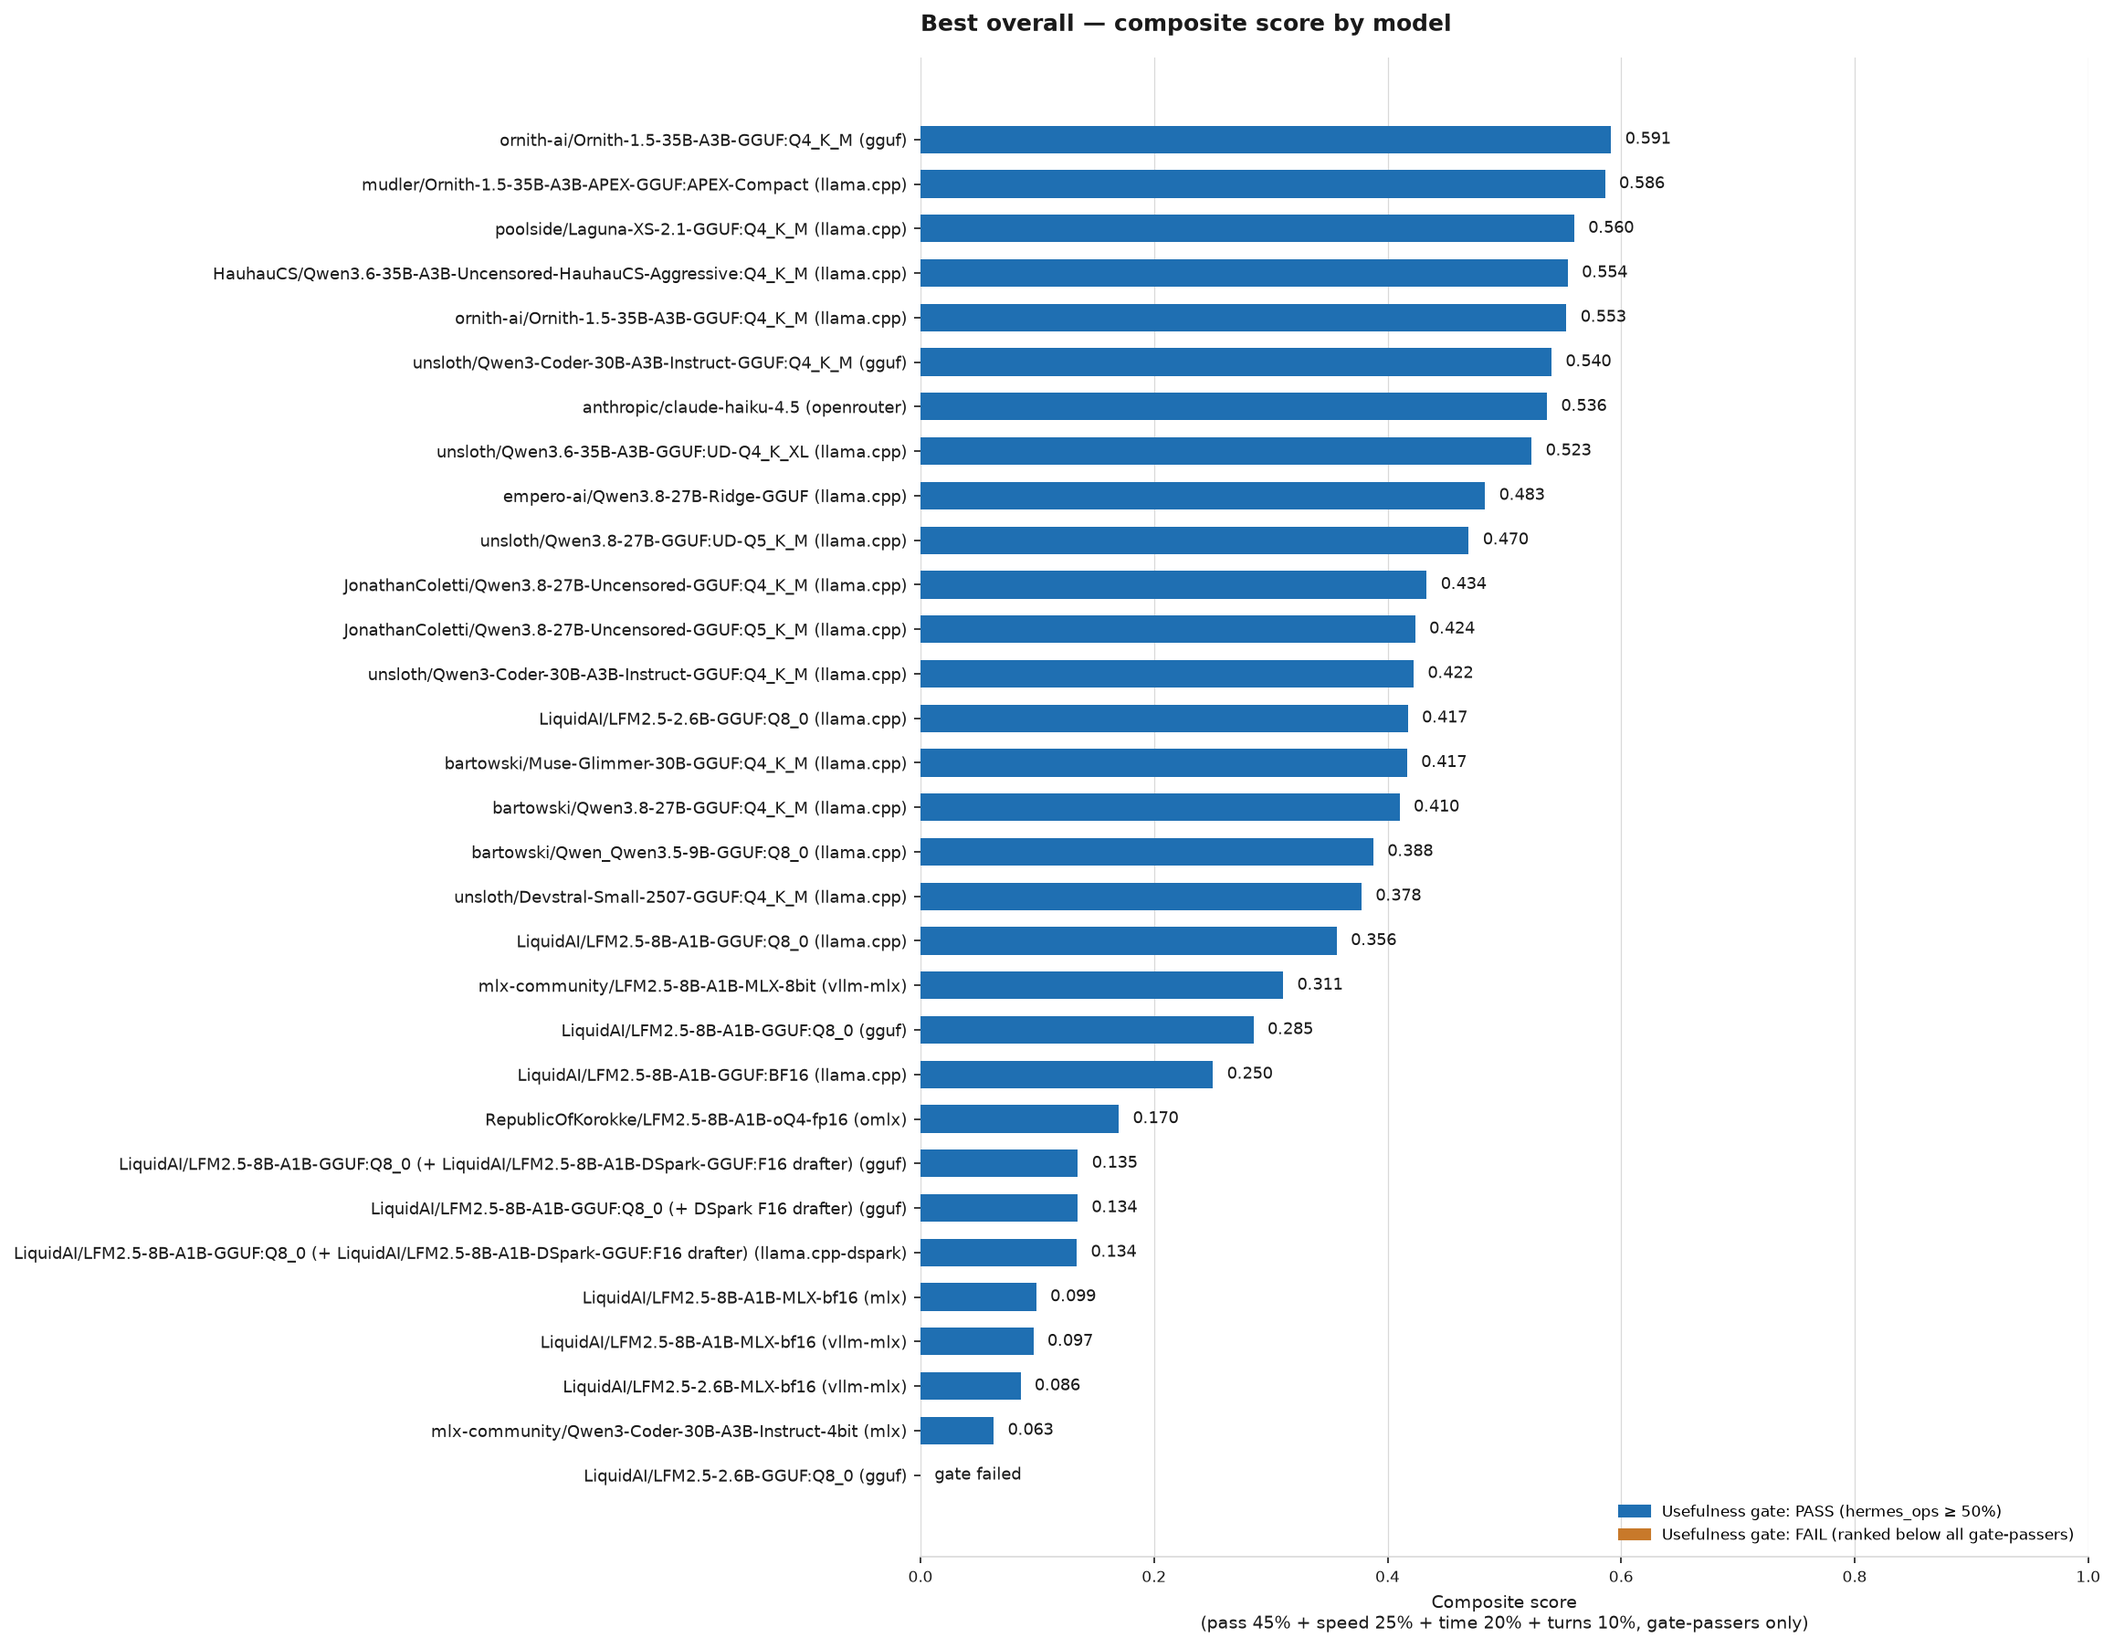
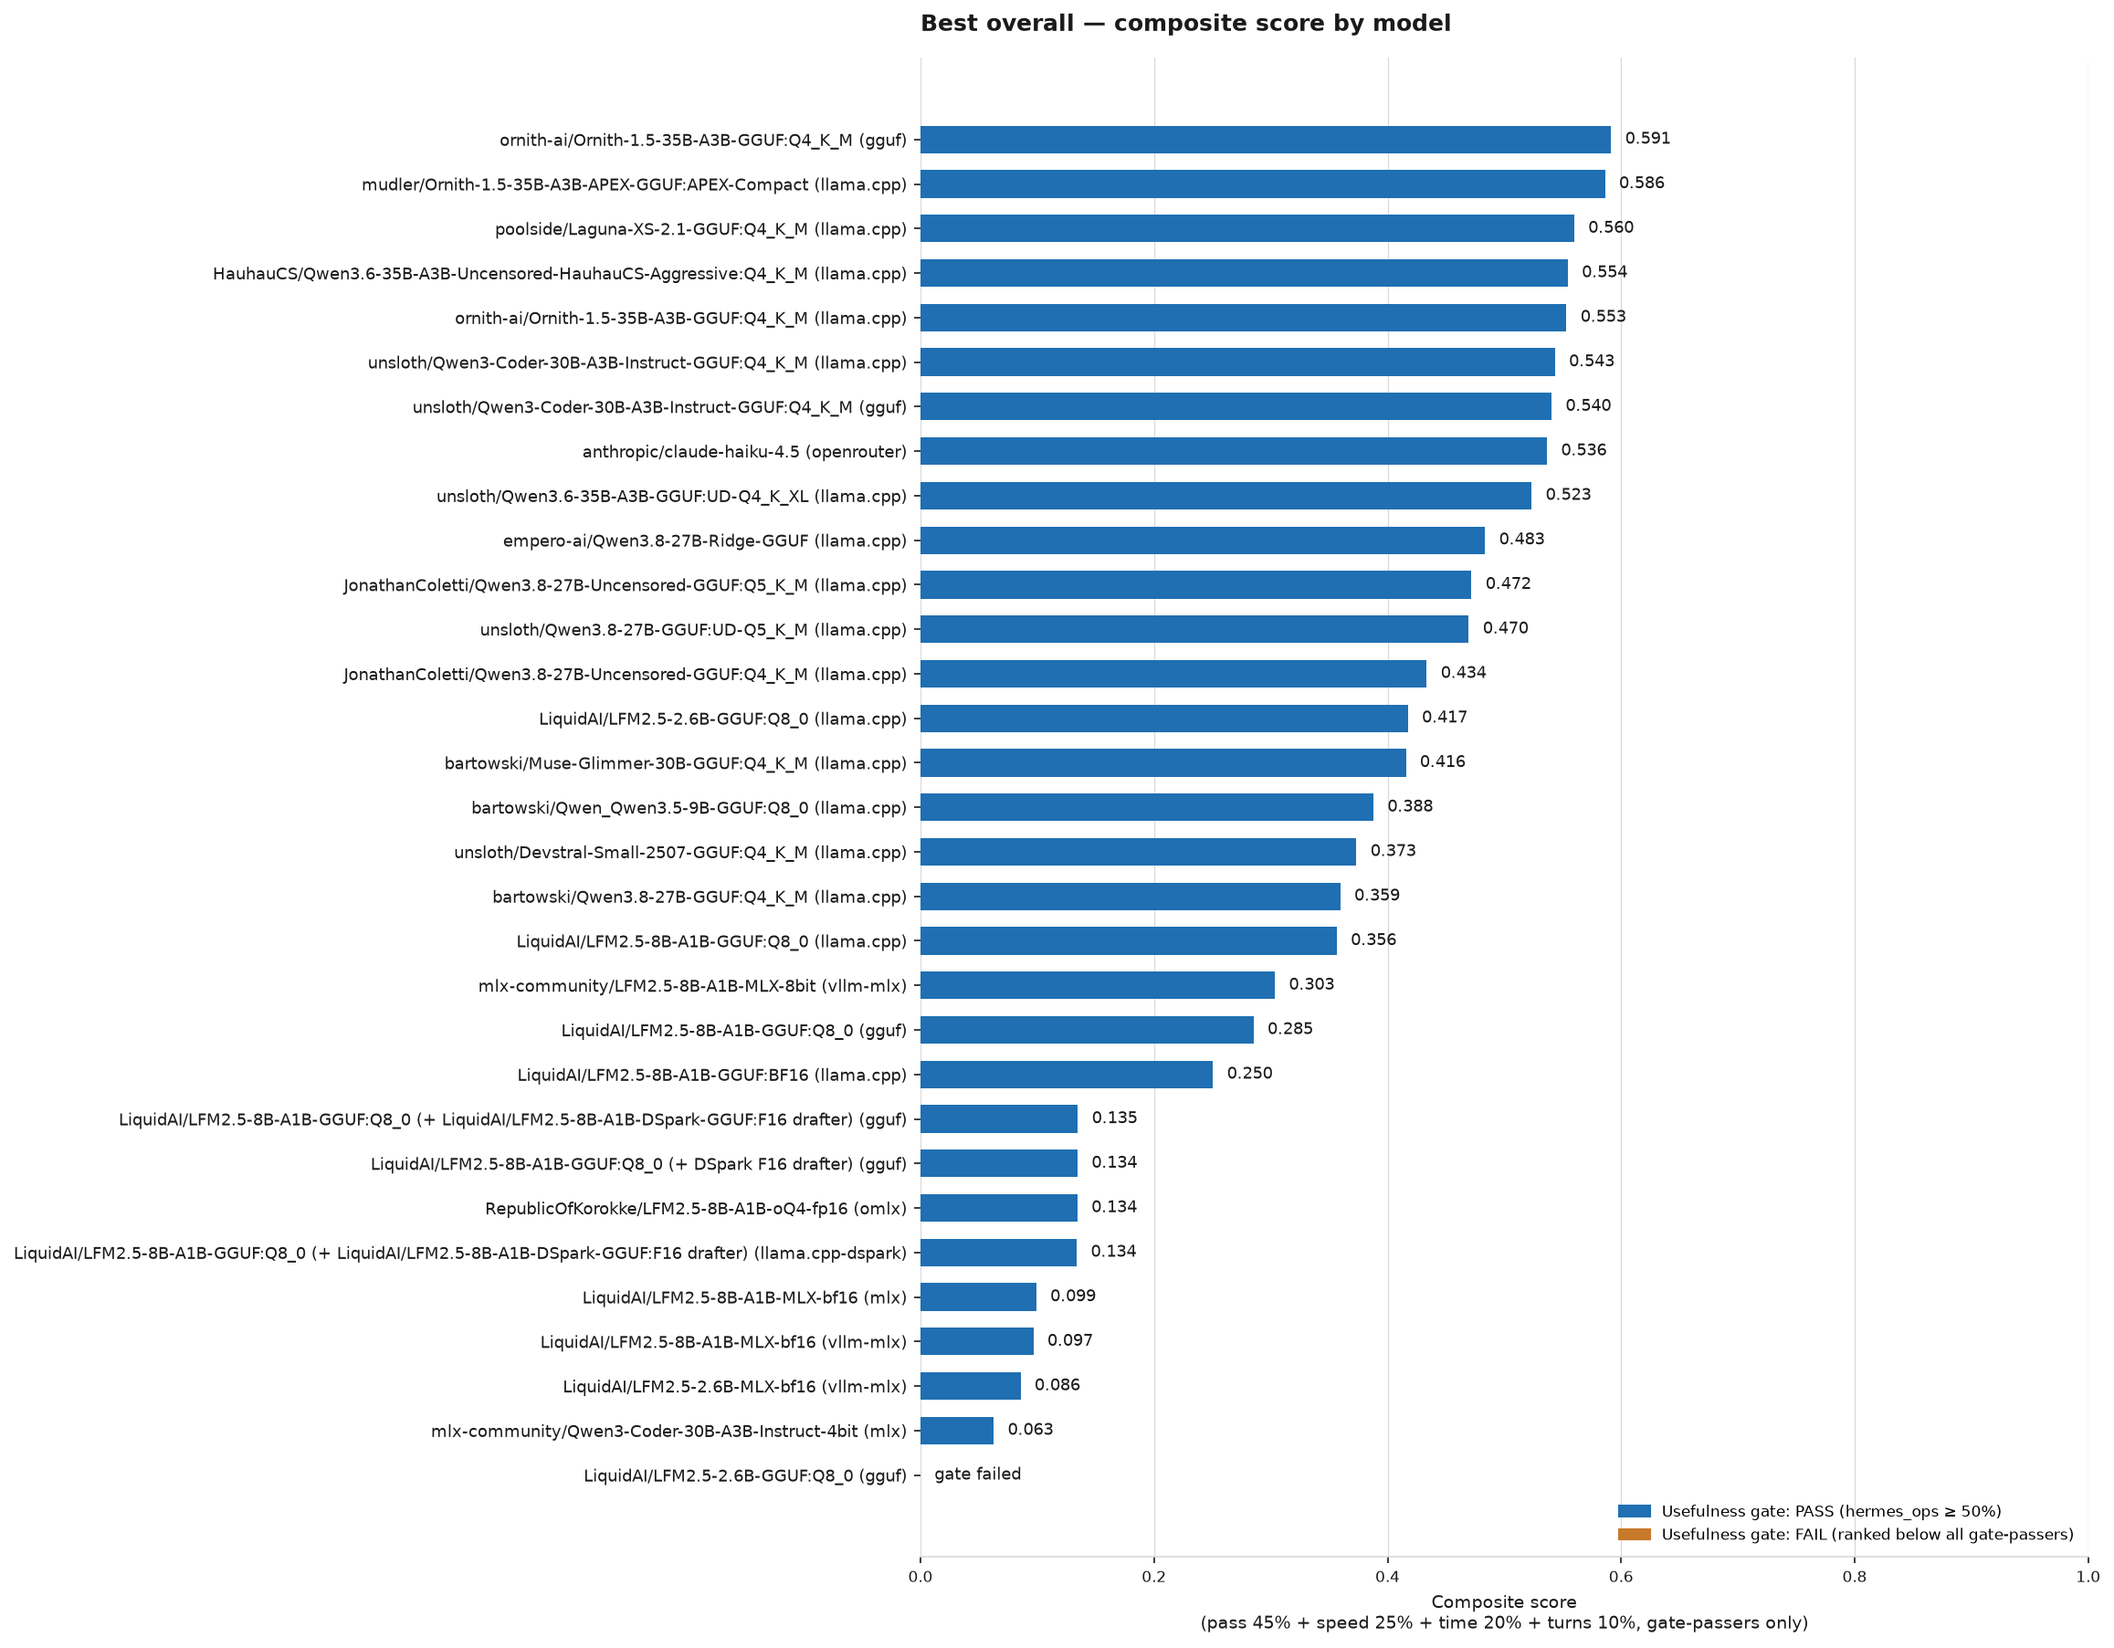
Fix leaderboard dedup: break exact evidence ties by recency, not iteration order
Discovered while reviewing final Phase D results: Qwen3-Coder-30B-A3B's
real full rerun (19 tasks, 89% pass, 11/11 coding) lost the "Best
overall" dedup tie to an older 19-task partial run (74% pass) under the
same config_hash, purely because the old fragment happened to be
iterated first in dict order -- the tie-break comparison never fires on
an EXACT evidence count match. Added a latest_timestamp field to each
group's stats and use it to break ties: a same-config rerun now always
supersedes an earlier one with equal evidence, instead of an arbitrary
pick. Added a regression test that reproduces the exact failure mode
(older fragment iterated first, confirmed to fail without the fix,
pass with it).

diff --git a/runner/tests/test_build_leaderboard.py b/runner/tests/test_build_leaderboard.py
@@ -293,7 +293,8 @@ class CompositeRankingTests(unittest.TestCase):
 
     def _complete_rows(self, model, hermes_ops_passes, coding_passes, tps,
                         config_hash="h", runner_sha="abc", quant=None,
-                        inference_engine="vllm-mlx", wall_seconds=None, turns=None):
+                        inference_engine="vllm-mlx", wall_seconds=None, turns=None,
+                        timestamp=None):
         """Builds a full (sanity + hermes_ops + coding) row set for one
         group — one sanity-basic PASS, one hermes_ops row per bool in
         `hermes_ops_passes`, one kiem_mini row per bool in `coding_passes`,
@@ -302,7 +303,9 @@ class CompositeRankingTests(unittest.TestCase):
         coding row (sufficient for these tests, which only need group-
         level averages to differ, not per-task variation) — omitted
         entirely (not just None) when not given, matching how a real log
-        row without hermes_turns/wall_seconds actually looks."""
+        row without hermes_turns/wall_seconds actually looks. `timestamp`,
+        when given, is stamped on every row (default omitted, like a real
+        row always has a timestamp but most dedup tests don't care which)."""
         rows = [{
             "suite": "sanity", "task_id": "sanity-basic", "task_type": "sanity",
             "model": model, "inference_engine": inference_engine, "quant": quant,
@@ -330,6 +333,9 @@ class CompositeRankingTests(unittest.TestCase):
             if turns is not None:
                 row["hermes_turns"] = turns
             rows.append(row)
+        if timestamp is not None:
+            for row in rows:
+                row["timestamp"] = timestamp
         return rows
 
     def test_group_missing_any_axis_is_excluded_entirely(self):
@@ -513,6 +519,34 @@ class CompositeRankingTests(unittest.TestCase):
         matches = [l for l in section.splitlines() if l.startswith("| ") and " m " in l]
         self.assertEqual(len(matches), 1, f"expected exactly one row for 'm', got: {matches}")
         self.assertIn("later", matches[0])  # the more-evidenced fragment, not the 1-task one
+
+    def test_evidence_tie_is_broken_by_recency_not_iteration_order(self):
+        # Real incident, 2026-08-28 (benchmark v2 Phase D wrap-up):
+        # Qwen3-Coder-30B-A3B's genuine full rerun (19 tasks, 89% pass)
+        # lost a tie to an OLDER partial run under the same config_hash
+        # that happened to also have exactly 19 tasks (74% pass) but was
+        # logged earlier — the old `evidence > current` comparison never
+        # replaces on an exact tie, so whichever fragment the dict
+        # iteration reached first won, regardless of which one was the
+        # real, current result. Deliberately construct an exact evidence
+        # tie (2 hermes_ops + 3 coding = 5 both sides) where the OLDER
+        # fragment is iterated first (earlier config_hash/runner_sha
+        # alphabetically, so dict insertion order would favor it) to
+        # prove recency — not insertion order — now wins.
+        rows = self._complete_rows(
+            "m", hermes_ops_passes=[True, True], coding_passes=[True, True, False], tps=20.0,
+            config_hash="h", runner_sha="a-older", timestamp="2026-08-25T00:00:00Z",
+        ) + self._complete_rows(
+            "m", hermes_ops_passes=[True, True], coding_passes=[True, True, True], tps=20.0,
+            config_hash="h", runner_sha="z-newer", timestamp="2026-08-28T00:00:00Z",
+        )
+        self._write_log(rows)
+        bl.main()
+        text = (self.repo / "results" / "LEADERBOARD.md").read_text()
+        section = self._best_overall_section(text)
+        matches = [l for l in section.splitlines() if l.startswith("| ") and " m " in l]
+        self.assertEqual(len(matches), 1, f"expected exactly one row for 'm', got: {matches}")
+        self.assertIn("100% (3)", matches[0])  # the newer, fully-passing fragment
 
 
 class BlockedConfigsSectionTests(unittest.TestCase):

diff --git a/runner/build_leaderboard.py b/runner/build_leaderboard.py
@@ -311,6 +311,7 @@ def compute_group_stats(groups):
             "n_sanity": len(sanity_scored),
             "n_coding": len(coding_scored),
             "n_hermes_ops": len(hermes_ops_scored),
+            "latest_timestamp": max((r.get("timestamp") or "" for r in group), default=""),
         })
     return group_stats
 
@@ -358,7 +359,19 @@ def rank_groups(group_stats):
     4. Dedup-to-most-evidenced-fragment-per-(model, inference_engine,
        quant) from round 1 is unchanged — still needed so an early
        1-task fragment from before a model was fully tested can't outrank
-       that same model's own later, complete sweep.
+       that same model's own later, complete sweep. FIXED 2026-08-28
+       (benchmark v2 Phase D wrap-up): on an EXACT evidence tie between
+       two fragments of the same config (e.g. two separate full 19-task
+       runs of the same config on different days — a re-run superseding
+       an earlier one, not a partial), the old `evidence > current`
+       comparison silently kept whichever fragment iteration happened to
+       reach first (dict insertion order), which is arbitrary and
+       genuinely picked a STALE result once during this session's own
+       Phase D (Qwen3-Coder-30B-A3B's real 89%-pass/11-11-coding rerun
+       lost a tie to an older 74%-pass partial under the same config
+       hash). Now breaks ties by `latest_timestamp` — the more recent
+       run wins, since a same-config re-run is meant to supersede, not
+       compete evenly with, an earlier one.
 
     Round 3 (2026-08-27, benchmark v2, user request): round 2's primary
     sort was plain coding_pass_rate, tie-broken by speed — clean, but it
@@ -405,7 +418,14 @@ def rank_groups(group_stats):
         dedup_key = (model, inference_engine, quant)
         evidence = gs["n_coding"] + gs["n_hermes_ops"]
         current = best_fragment.get(dedup_key)
-        if current is None or evidence > current["n_coding"] + current["n_hermes_ops"]:
+        if current is None:
+            best_fragment[dedup_key] = gs
+            continue
+        current_evidence = current["n_coding"] + current["n_hermes_ops"]
+        if evidence > current_evidence or (
+            evidence == current_evidence
+            and gs["latest_timestamp"] > current["latest_timestamp"]
+        ):
             best_fragment[dedup_key] = gs
 
     eligible_for_norm = [

diff --git a/results/LEADERBOARD.md b/results/LEADERBOARD.md
@@ -312,26 +312,26 @@ total coding+hermes_ops evidence.
 | 3 | poolside/Laguna-XS-2.1-GGUF:Q4_K_M | llama.cpp | — | thinking | 644ba3997136 | PASS (50%, 8) | 0.560 | 91% (11) | 34.8 tok/s | 181 | 24.5 |
 | 4 | HauhauCS/Qwen3.6-35B-A3B-Uncensored-HauhauCS-Aggressive:Q4_K_M | llama.cpp | — | thinking | 6fa6f52fdc56 | PASS (75%, 8) | 0.554 | 91% (11) | 30.2 tok/s | 173 | 15.8 |
 | 5 | ornith-ai/Ornith-1.5-35B-A3B-GGUF:Q4_K_M | llama.cpp | — | unspecified | 48d75180adbc | PASS (100%, 8) | 0.553 | 91% (11) | 30.9 tok/s | 226 | 17.7 |
-| 6 | unsloth/Qwen3-Coder-30B-A3B-Instruct-GGUF:Q4_K_M | gguf | — | instruct | 1fea08092fdc | PASS (62%, 8) | 0.540 | 100% (1) | 20.8 tok/s | 285 | 40.0 |
-| 7 | anthropic/claude-haiku-4.5 | openrouter | — | unspecified | 6cc890a25129 | PASS (100%, 8) | 0.536 | 82% (11) | 36.3 tok/s | 67 | 16.6 |
-| 8 | unsloth/Qwen3.6-35B-A3B-GGUF:UD-Q4_K_XL | llama.cpp | — | thinking | 436d6d25d30c | PASS (75%, 8) | 0.523 | 91% (11) | 27.1 tok/s | 202 | 40.0 |
-| 9 | empero-ai/Qwen3.8-27B-Ridge-GGUF | llama.cpp | — | instruct | 7b1d82c8abab | PASS (62%, 8) | 0.483 | 100% (11) | 5.5 tok/s | 511 | 40.0 |
-| 10 | unsloth/Qwen3.8-27B-GGUF:UD-Q5_K_M | llama.cpp | — | thinking (medium) | 340ca3032e6c | PASS (88%, 8) | 0.470 | 91% (11) | 6.8 tok/s | 935 | 14.5 |
-| 11 | JonathanColetti/Qwen3.8-27B-Uncensored-GGUF:Q4_K_M | llama.cpp | — | thinking | 3a740261a79c | PASS (75%, 8) | 0.434 | 82% (11) | 8.1 tok/s | 685 | 14.5 |
-| 12 | JonathanColetti/Qwen3.8-27B-Uncensored-GGUF:Q5_K_M | llama.cpp | — | thinking | 7103a8c7677c | PASS (62%, 8) | 0.424 | 82% (11) | 6.7 tok/s | 817 | 16.7 |
-| 13 | unsloth/Qwen3-Coder-30B-A3B-Instruct-GGUF:Q4_K_M | llama.cpp | — | instruct | 644415678c37 | PASS (75%, 8) | 0.422 | 73% (11) | 20.8 tok/s | 280 | 29.5 |
+| 6 | unsloth/Qwen3-Coder-30B-A3B-Instruct-GGUF:Q4_K_M | llama.cpp | — | instruct | 644415678c37 | PASS (75%, 8) | 0.543 | 100% (11) | 20.9 tok/s | 343 | 32.9 |
+| 7 | unsloth/Qwen3-Coder-30B-A3B-Instruct-GGUF:Q4_K_M | gguf | — | instruct | 1fea08092fdc | PASS (62%, 8) | 0.540 | 100% (1) | 20.8 tok/s | 285 | 40.0 |
+| 8 | anthropic/claude-haiku-4.5 | openrouter | — | unspecified | 6cc890a25129 | PASS (100%, 8) | 0.536 | 82% (11) | 36.3 tok/s | 67 | 16.6 |
+| 9 | unsloth/Qwen3.6-35B-A3B-GGUF:UD-Q4_K_XL | llama.cpp | — | thinking | 436d6d25d30c | PASS (75%, 8) | 0.523 | 91% (11) | 27.1 tok/s | 202 | 40.0 |
+| 10 | empero-ai/Qwen3.8-27B-Ridge-GGUF | llama.cpp | — | instruct | 7b1d82c8abab | PASS (62%, 8) | 0.483 | 100% (11) | 5.5 tok/s | 511 | 40.0 |
+| 11 | JonathanColetti/Qwen3.8-27B-Uncensored-GGUF:Q5_K_M | llama.cpp | — | thinking (medium) | b03fc3f2b8f8 | PASS (62%, 8) | 0.472 | 91% (11) | 6.7 tok/s | 980 | 13.5 |
+| 12 | unsloth/Qwen3.8-27B-GGUF:UD-Q5_K_M | llama.cpp | — | thinking (medium) | 340ca3032e6c | PASS (88%, 8) | 0.470 | 91% (11) | 6.8 tok/s | 935 | 14.5 |
+| 13 | JonathanColetti/Qwen3.8-27B-Uncensored-GGUF:Q4_K_M | llama.cpp | — | thinking | 3a740261a79c | PASS (75%, 8) | 0.434 | 82% (11) | 8.1 tok/s | 685 | 14.5 |
 | 14 | LiquidAI/LFM2.5-2.6B-GGUF:Q8_0 | llama.cpp | — | n/a | 0840d8e3ee87 | PASS (88%, 8) | 0.417 | 36% (11) | 62.6 tok/s | 263 | 23.8 |
-| 15 | bartowski/Muse-Glimmer-30B-GGUF:Q4_K_M | llama.cpp | — | thinking | 38ccea45c281 | PASS (62%, 8) | 0.417 | 82% (11) | 8.5 tok/s | 956 | 30.3 |
-| 16 | bartowski/Qwen3.8-27B-GGUF:Q4_K_M | llama.cpp | — | thinking | c02615b57f21 | PASS (88%, 8) | 0.410 | 82% (11) | 7.9 tok/s | 811 | 40.0 |
-| 17 | bartowski/Qwen_Qwen3.5-9B-GGUF:Q8_0 | llama.cpp | — | thinking | a2d241742068 | PASS (75%, 8) | 0.388 | 64% (11) | 21.0 tok/s | 353 | 21.8 |
-| 18 | unsloth/Devstral-Small-2507-GGUF:Q4_K_M | llama.cpp | — | n/a | ffa862c18cff | PASS (75%, 8) | 0.378 | 73% (11) | 7.7 tok/s | 764 | 23.5 |
+| 15 | bartowski/Muse-Glimmer-30B-GGUF:Q4_K_M | llama.cpp | — | thinking | 38ccea45c281 | PASS (62%, 8) | 0.416 | 82% (11) | 8.5 tok/s | 973 | 32.4 |
+| 16 | bartowski/Qwen_Qwen3.5-9B-GGUF:Q8_0 | llama.cpp | — | thinking | a2d241742068 | PASS (75%, 8) | 0.388 | 64% (11) | 21.0 tok/s | 353 | 21.8 |
+| 17 | unsloth/Devstral-Small-2507-GGUF:Q4_K_M | llama.cpp | — | n/a | ffa862c18cff | PASS (75%, 8) | 0.373 | 73% (11) | 7.7 tok/s | 902 | 29.4 |
+| 18 | bartowski/Qwen3.8-27B-GGUF:Q4_K_M | llama.cpp | — | thinking | c7eb832ac1e8 | PASS (88%, 8) | 0.359 | 73% (11) | 5.2 tok/s | 916 | 40.0 |
 | 19 | LiquidAI/LFM2.5-8B-A1B-GGUF:Q8_0 | llama.cpp | — | n/a | 05a5098cf4c6 | PASS (75%, 8) | 0.356 | 0% (11) | 67.6 tok/s | 34 | 5.1 |
-| 20 | mlx-community/LFM2.5-8B-A1B-MLX-8bit | vllm-mlx | — | n/a | 00878f13621f | PASS (62%, 8) | 0.311 | 0% (1) | 26.4 tok/s | 1 | 40.0 |
+| 20 | mlx-community/LFM2.5-8B-A1B-MLX-8bit | vllm-mlx | — | n/a | 00878f13621f | PASS (75%, 8) | 0.303 | 0% (1) | 24.5 tok/s | 1 | 40.0 |
 | 21 | LiquidAI/LFM2.5-8B-A1B-GGUF:Q8_0 | gguf | — | n/a | 5f50ca6ebdf3 | PASS (62%, 8) | 0.285 | 0% (1) | 66.7 tok/s | 9 | 40.0 |
 | 22 | LiquidAI/LFM2.5-8B-A1B-GGUF:BF16 | llama.cpp | — | n/a | a148c29637e6 | PASS (75%, 8) | 0.250 | 0% (11) | 55.3 tok/s | 60 | 12.1 |
-| 23 | RepublicOfKorokke/LFM2.5-8B-A1B-oQ4-fp16 | omlx | — | n/a | 00fc47aef271 | PASS (67%, 6) | 0.170 | 0% (3) | 42.3 tok/s | 312 | 40.0 |
-| 24 | LiquidAI/LFM2.5-8B-A1B-GGUF:Q8_0 (+ LiquidAI/LFM2.5-8B-A1B-DSpark-GGUF:F16 drafter) | gguf | — | n/a | f6bb65acb160 | PASS (75%, 8) | 0.135 | 0% (1) | 27.0 tok/s | 10 | 40.0 |
-| 25 | LiquidAI/LFM2.5-8B-A1B-GGUF:Q8_0 (+ DSpark F16 drafter) | gguf | — | ? | 85636a621ce0 | PASS (100%, 3) | 0.134 | 0% (1) | 29.3 tok/s | 17 | 40.0 |
+| 23 | LiquidAI/LFM2.5-8B-A1B-GGUF:Q8_0 (+ LiquidAI/LFM2.5-8B-A1B-DSpark-GGUF:F16 drafter) | gguf | — | n/a | f6bb65acb160 | PASS (75%, 8) | 0.135 | 0% (1) | 27.0 tok/s | 10 | 40.0 |
+| 24 | LiquidAI/LFM2.5-8B-A1B-GGUF:Q8_0 (+ DSpark F16 drafter) | gguf | — | ? | 85636a621ce0 | PASS (100%, 3) | 0.134 | 0% (1) | 29.3 tok/s | 17 | 40.0 |
+| 25 | RepublicOfKorokke/LFM2.5-8B-A1B-oQ4-fp16 | omlx | — | n/a | b4a63fbb6a67 | PASS (75%, 8) | 0.134 | 0% (1) | 25.3 tok/s | 8 | 40.0 |
 | 26 | LiquidAI/LFM2.5-8B-A1B-GGUF:Q8_0 (+ LiquidAI/LFM2.5-8B-A1B-DSpark-GGUF:F16 drafter) | llama.cpp-dspark | — | n/a | 4f8641aa7094 | PASS (75%, 8) | 0.134 | 0% (1) | 26.9 tok/s | 10 | 40.0 |
 | 27 | LiquidAI/LFM2.5-8B-A1B-MLX-bf16 | mlx | — | n/a | da00492c3b46 | PASS (62%, 8) | 0.099 | 0% (1) | 21.4 tok/s | 31 | 40.0 |
 | 28 | LiquidAI/LFM2.5-8B-A1B-MLX-bf16 | vllm-mlx | — | n/a | 9693319bc3a1 | PASS (75%, 8) | 0.097 | 0% (1) | 20.7 tok/s | 29 | 40.0 |
